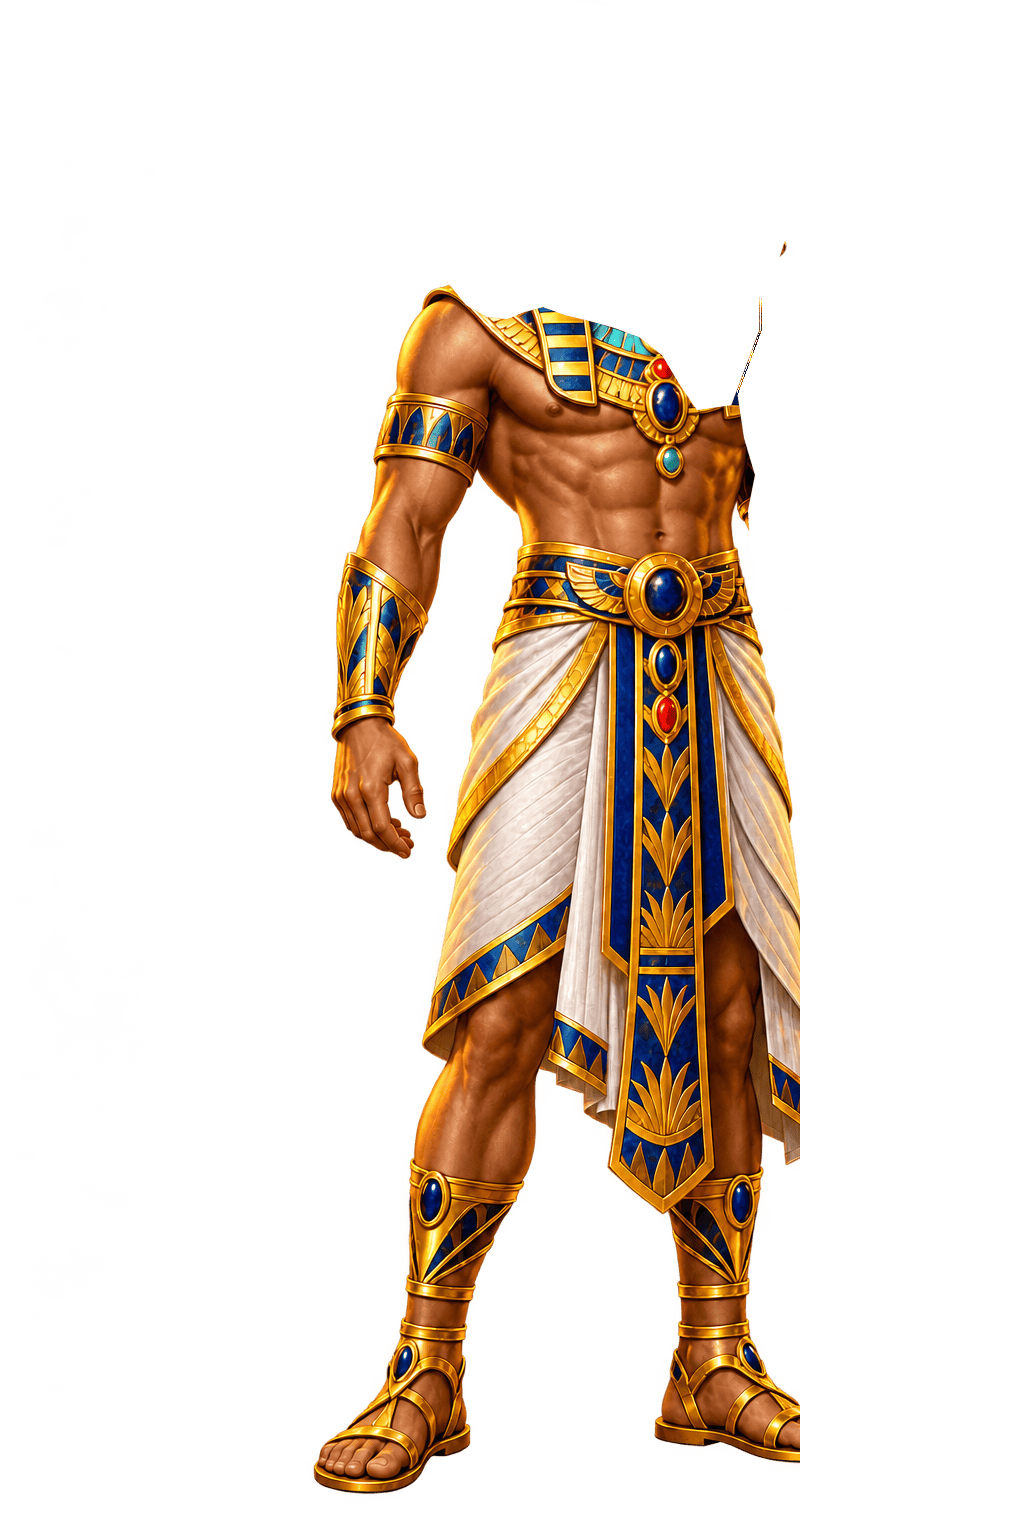
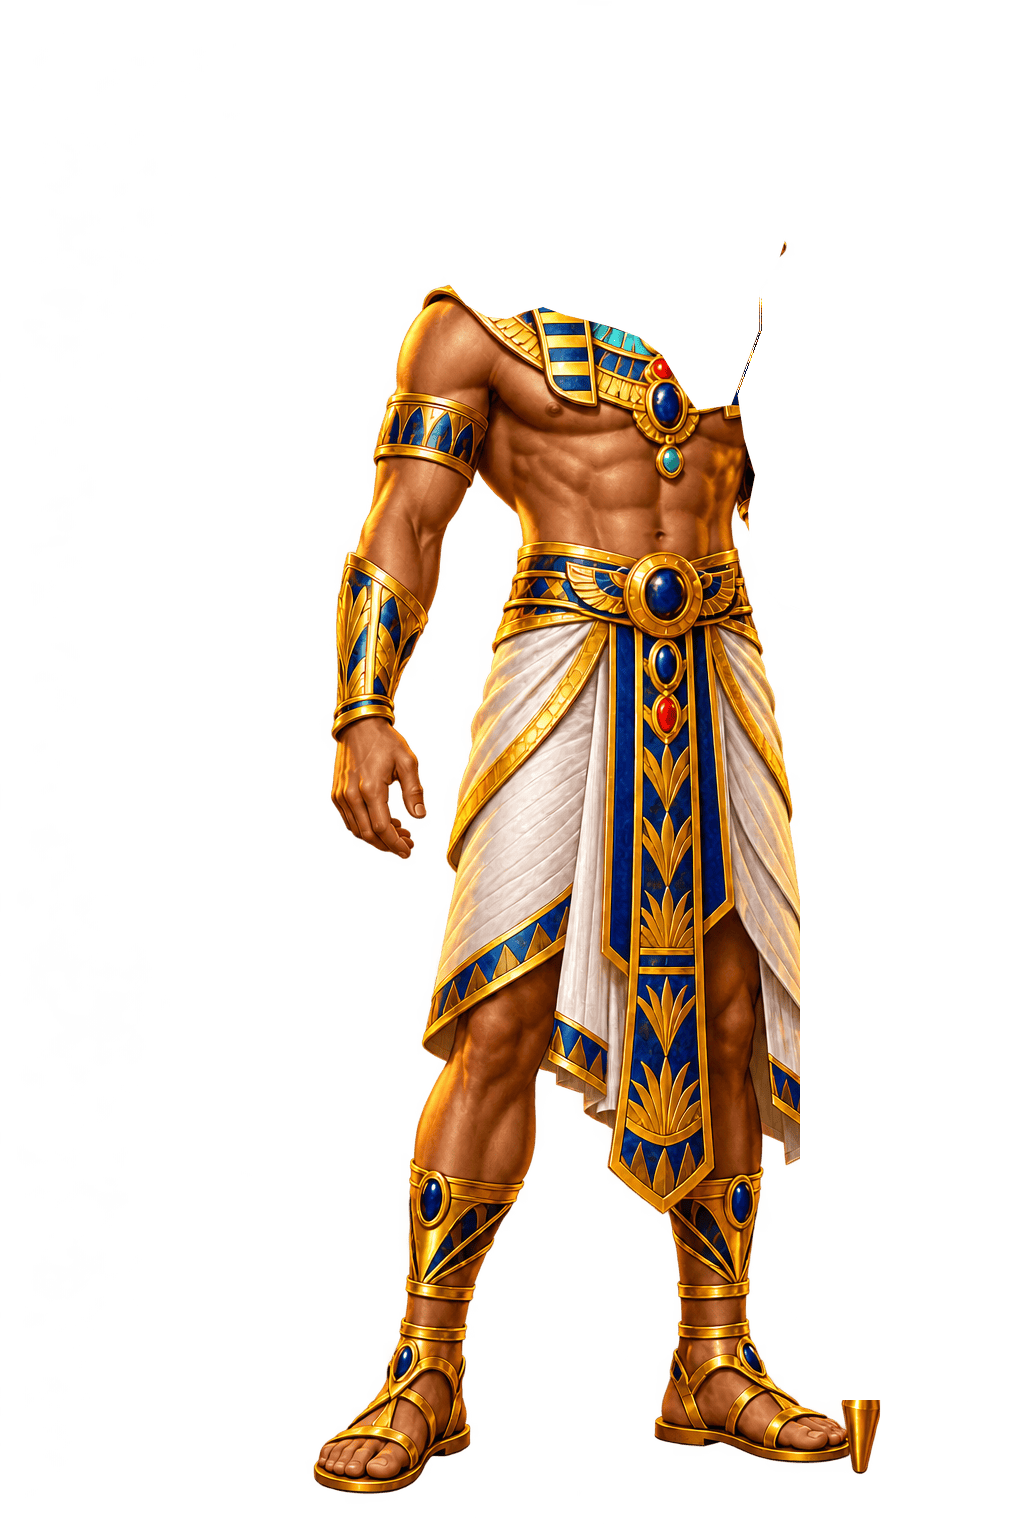
Pharaoh's Drop: Tomb Raid played on the tomb doors (pick a door: x0.5 to x20 of the bet behind them) instead of the pressure gauge; the Pharaoh's left foot whole again; a door tap counts over its whole doorway

diff --git a/game/src/game.ts b/game/src/game.ts
@@ -66,6 +66,9 @@ function chestPick(theme: Theme, tex: (file: string) => Texture): ChestPick | nu
     tokens: { plain: tex(t.plain), MINI: tex(t.MINI), MAJOR: tex(t.MAJOR), MEGA: tex(t.MEGA) } };
 }
 
+/** Tomb Raid's payouts (x the round's bet): the server's meltdown table, a door each, the first on the left. */
+const TOMB_RAID = [0.5, 1, 2, 3, 5, 10, 20];
+
 /** The power-ups' short names, for the status line and the ARSENAL key. */
 const POWER_NAMES: Record<string, string> = { heavy: 'HEAVY', cluster: 'CLUSTER', 'strike-left': 'STRIKE L', 'strike-centre': 'STRIKE C',
   'strike-right': 'STRIKE R', crates: 'CRATES', missile: 'MISSILE', night: 'NIGHT', tank: 'TANK',
@@ -120,6 +123,8 @@ export class Game extends Container {
   private readonly ring: boolean;
   /** the theme's spinner is a chest pick (on a phone: two shelves in the upper middle of the screen) */
   private readonly chestPick: boolean;
+  /** the meltdown is a Tomb Raid on the tomb doors (Pharaoh's Drop), not the pressure gauge */
+  private readonly tombRaid: boolean;
   private readonly bar: MegaControls | ConsoleControls;
   /** the power-up armed for the next round (heavy, cluster), and the ARSENAL panel it is picked on */
   private power: string | null = null;
@@ -222,6 +227,7 @@ export class Game extends Container {
         words: reactor ? ['SURGE!', 'OVERLOAD!'] : lagoon ? ['SPLASH!', 'TIDAL WAVE!'] : pharaoh ? ['GOLD!', "PHARAOH'S GOLD!"] : ['BOOM!', 'KABOOM!'] });
     this.ring = !!theme.wheel.tesla || !!theme.wheel.chests;
     this.chestPick = !!theme.wheel.chests;
+    this.tombRaid = !!theme.wheel.chests?.doors;
     this.wheel.onTick = () => sound('tick', { volume: 0.5 });
     this.wheel.onWin = big => {
       // coins out of the wheel on every win, a storm for a jackpot or a MEGA SPIN
@@ -822,7 +828,18 @@ export class Game extends Container {
     this.board.combo(0);
 
     // core meltdown: the reactor's pressure gauge climbs to what it pays
-    if (round.power === 'meltdown' && round.targets?.length && this.meltdown) {
+    if (round.power === 'meltdown' && round.targets?.length && this.tombRaid) {
+      // Pharaoh's Drop's Tomb Raid: each tomb door hides one of the raid's payouts; the player picks one
+      await this.revealWheel();
+      const pays = round.targets[0];
+      const segments = TOMB_RAID.map(m => ({ multiplier: m, name: m === 20 ? 'MEGA' : m === 10 ? 'MAJOR' : null }));
+      const win = round.targetWins?.[0] ?? 0;
+      // the raid pays x the round's plain bet (the bet a ball times the balls)
+      await this.wheel.turn(segments, Math.max(0, TOMB_RAID.indexOf(pays)), win, { gold: false, title: 'TOMB RAID', base: cents(bet * round.slots.length) });
+      land(win);
+      sound(pays >= 5 ? 'jackpot' : 'big');
+      if (!(round.spins?.length || round.megaSpins?.length)) await this.hideWheel();
+    } else if (round.power === 'meltdown' && round.targets?.length && this.meltdown) {
       if (this.view) this.meltdown.layout(this.view);
       const win = round.targetWins?.[0] ?? 0;
       await this.meltdown.play(round.targets[0], `x${round.targets[0]}  ${this.money(win)}`,

diff --git a/game/src/fortuneWheel.ts b/game/src/fortuneWheel.ts
@@ -231,7 +231,9 @@ export class FortuneWheel extends Container {
   async turn(segments: Segment[], index: number, win: number, options: { gold: boolean; title: string; base?: number }): Promise<void> {
     const wasGold = this.gold;
     this.gold = options.gold;
-    if (options.gold || wasGold) this.draw(segments);
+    // other prizes than the wheel's (a bonus played on it, as Tomb Raid on the tomb doors): drawn for this turn
+    const other = segments !== this.segments && !options.gold;
+    if (options.gold || wasGold || other) this.draw(segments);
     this.jackpotTimer?.pause();
     this.jackpotName.text = options.title;
     this.jackpotAmount.text = options.base !== undefined ? `${this.format(options.base)} × ?` : options.gold ? 'MEGA SPIN' : 'SPIN!';
@@ -253,7 +255,7 @@ export class FortuneWheel extends Container {
     fit(this.jackpotName, this.radius * 0.38);
     fit(this.spinsText, this.radius * 0.38);
     await this.celebrate(win, !!segment.name || options.gold);
-    if (options.gold) {
+    if (options.gold || other) {
       this.gold = false;
       this.draw();
     }
@@ -894,7 +896,9 @@ export class FortuneWheel extends Container {
     const catcher = new Container();
     catcher.eventMode = 'static';
     catcher.cursor = 'pointer';
-    catcher.hitArea = new Rectangle(left, this.chestFeet - size * 1.1, right - left, this.chestLow - this.chestFeet + size * 1.2);
+    // (a door is taller than a chest: its whole doorway)
+    const tall = doors ? (this.chests[0]?.archH ?? size * 1.6) : size * 1.1;
+    catcher.hitArea = new Rectangle(left, this.chestFeet - tall, right - left, this.chestLow - this.chestFeet + tall + size * 0.1);
     this.addChild(catcher);
     // a tap goes to the chest whose middle is nearest
     const near = (p: { x: number; y: number }) => this.chests.reduce((a, b) =>
